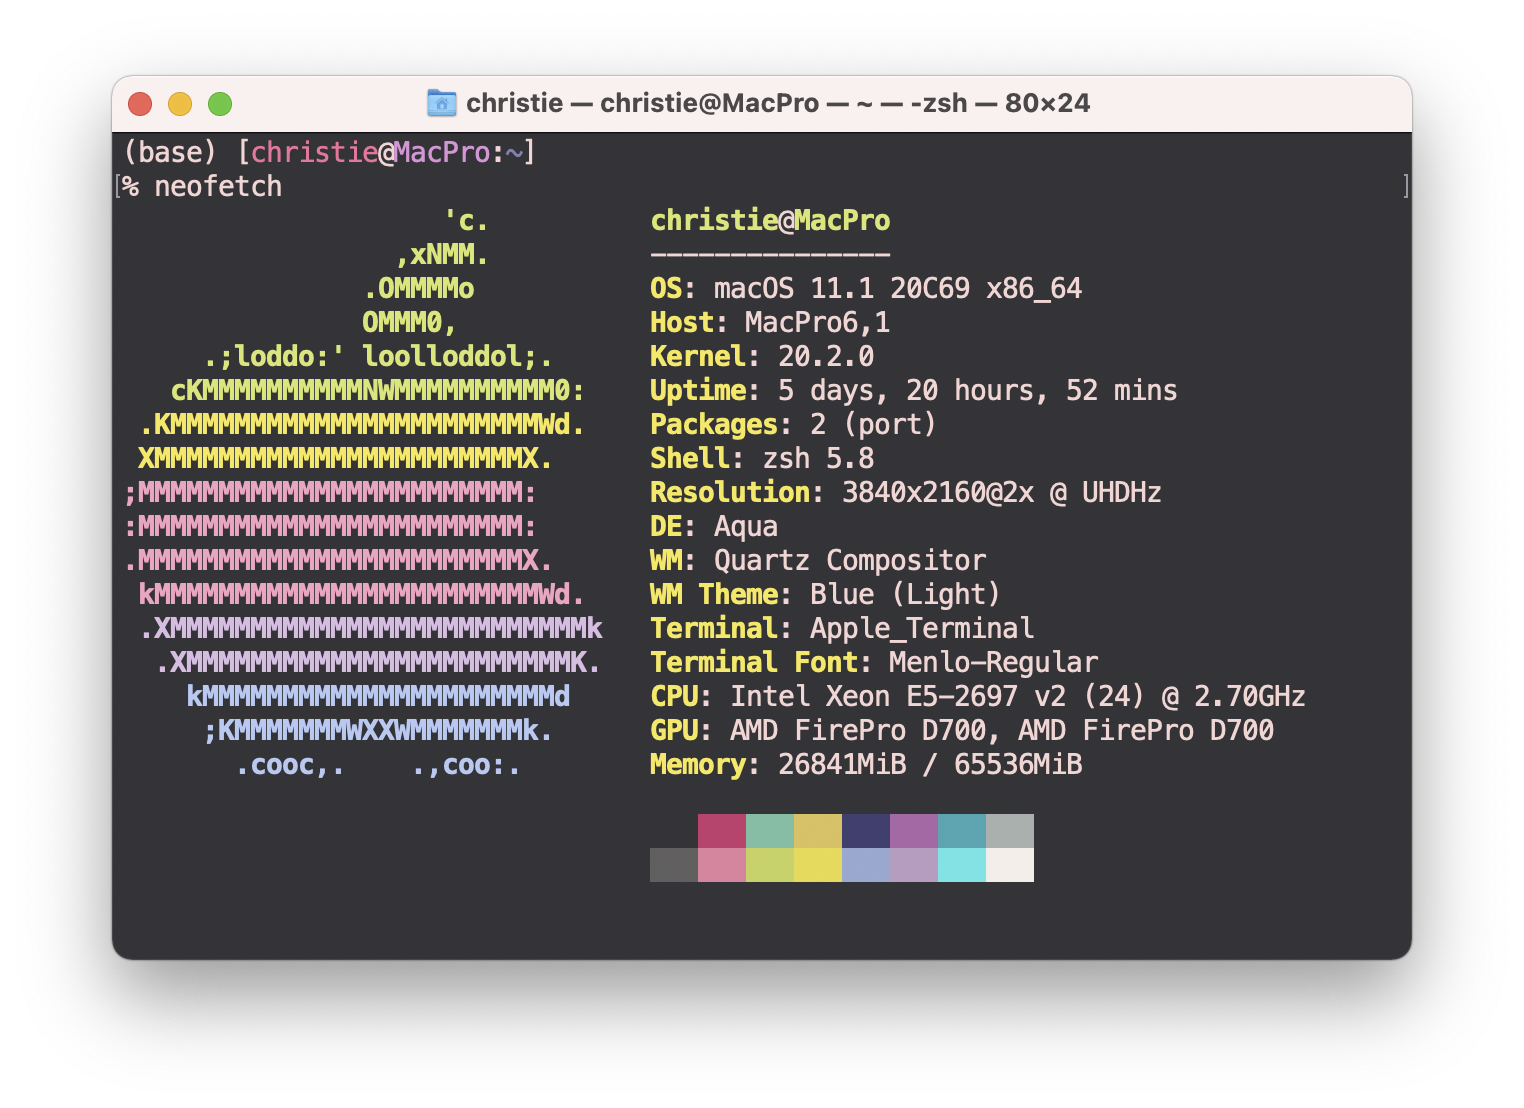
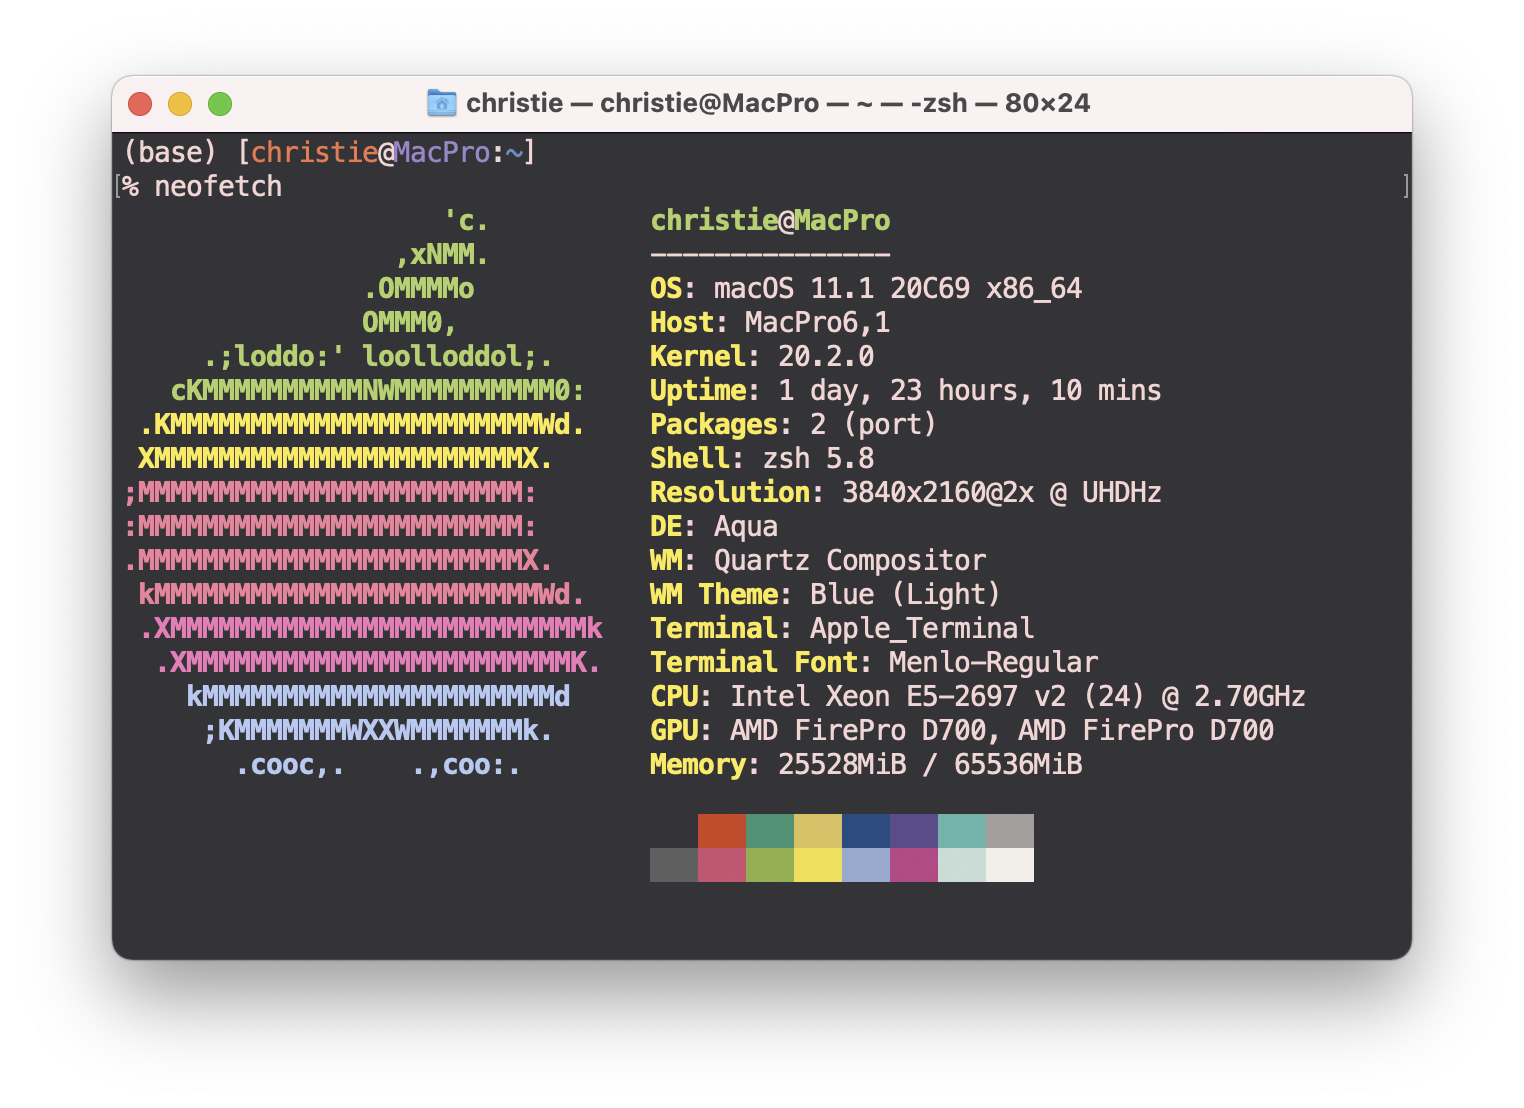
Updated downloads, images and colours

diff --git a/static/downloads/rosely.html b/static/downloads/rosely.html
@@ -9,7 +9,7 @@ input{margin-left: 1em;}
 </style></head>
 <body>
 <div id="colors">
-<div style="background-color:rgb(39, 39, 42); color:rgb(255, 255, 255)">rosely0:<br/><span>#27272A</span></div><div style="background-color:rgb(97, 95, 95); color:rgb(255, 255, 255)">rosely1:<br/><span>#615F5F</span></div><div style="background-color:rgb(133, 103, 123); color:rgb(255, 255, 255)">rosely2:<br/><span>#85677B</span></div><div style="background-color:rgb(164, 158, 158); color:rgb(0, 0, 0)">rosely3:<br/><span>#A49E9E</span></div><div style="background-color:rgb(247, 202, 202); color:rgb(0, 0, 0)">rosely4:<br/><span>#F7CACA</span></div><div style="background-color:rgb(244, 222, 222); color:rgb(0, 0, 0)">rosely5:<br/><span>#F4DEDE</span></div><div style="background-color:rgb(244, 238, 232); color:rgb(0, 0, 0)">rosely6:<br/><span>#F4EEE8</span></div><div style="background-color:rgb(147, 169, 209); color:rgb(0, 0, 0)">rosely7:<br/><span>#93A9D1</span></div><div style="background-color:rgb(190, 156, 193); color:rgb(0, 0, 0)">rosely8:<br/><span>#BE9CC1</span></div><div style="background-color:rgb(176, 135, 155); color:rgb(0, 0, 0)">rosely9:<br/><span>#B0879B</span></div><div style="background-color:rgb(181, 101, 167); color:rgb(0, 0, 0)">rosely10:<br/><span>#B565A7</span></div><div style="background-color:rgb(210, 56, 108); color:rgb(255, 255, 255)">rosely11:<br/><span>#D2386C</span></div><div style="background-color:rgb(236, 128, 158); color:rgb(0, 0, 0)">rosely12:<br/><span>#EC809E</span></div><div style="background-color:rgb(234, 218, 79); color:rgb(0, 0, 0)">rosely13:<br/><span>#EADA4F</span></div><div style="background-color:rgb(100, 191, 164); color:rgb(0, 0, 0)">rosely14:<br/><span>#64BFA4</span></div><div style="background-color:rgb(145, 155, 201); color:rgb(0, 0, 0)">rosely15:<br/><span>#919BC9</span></div></div>
+<div style="background-color:rgb(39, 39, 42); color:rgb(255, 255, 255)">rosely0:<br/><span>#27272A</span></div><div style="background-color:rgb(97, 95, 95); color:rgb(255, 255, 255)">rosely1:<br/><span>#615F5F</span></div><div style="background-color:rgb(164, 158, 158); color:rgb(0, 0, 0)">rosely2:<br/><span>#A49E9E</span></div><div style="background-color:rgb(244, 238, 232); color:rgb(0, 0, 0)">rosely3:<br/><span>#F4EEE8</span></div><div style="background-color:rgb(236, 128, 158); color:rgb(0, 0, 0)">rosely4:<br/><span>#EC809E</span></div><div style="background-color:rgb(247, 202, 202); color:rgb(0, 0, 0)">rosely5:<br/><span>#F7CACA</span></div><div style="background-color:rgb(248, 215, 221); color:rgb(0, 0, 0)">rosely6:<br/><span>#F8D7DD</span></div><div style="background-color:rgb(244, 222, 222); color:rgb(0, 0, 0)">rosely7:<br/><span>#F4DEDE</span></div><div style="background-color:rgb(133, 103, 123); color:rgb(255, 255, 255)">rosely8:<br/><span>#85677B</span></div><div style="background-color:rgb(181, 101, 167); color:rgb(0, 0, 0)">rosely9:<br/><span>#B565A7</span></div><div style="background-color:rgb(190, 156, 193); color:rgb(0, 0, 0)">roselyA:<br/><span>#BE9CC1</span></div><div style="background-color:rgb(210, 196, 214); color:rgb(0, 0, 0)">roselyB:<br/><span>#D2C4D6</span></div><div style="background-color:rgb(210, 56, 108); color:rgb(255, 255, 255)">roselyC:<br/><span>#D2386C</span></div><div style="background-color:rgb(100, 191, 164); color:rgb(0, 0, 0)">roselyD:<br/><span>#64BFA4</span></div><div style="background-color:rgb(60, 173, 212); color:rgb(0, 0, 0)">roselyE:<br/><span>#3CADD4</span></div><div style="background-color:rgb(234, 218, 79); color:rgb(0, 0, 0)">roselyF:<br/><span>#EADA4F</span></div><div style="background-color:rgb(39, 39, 42); color:rgb(255, 255, 255)">black:<br/><span>#27272A</span></div><div style="background-color:rgb(221, 65, 36); color:rgb(0, 0, 0)">red:<br/><span>#DD4124</span></div><div style="background-color:rgb(0, 148, 115); color:rgb(0, 0, 0)">green:<br/><span>#009473</span></div><div style="background-color:rgb(223, 193, 96); color:rgb(0, 0, 0)">yellow:<br/><span>#DFC160</span></div><div style="background-color:rgb(15, 76, 129); color:rgb(255, 255, 255)">blue:<br/><span>#0F4C81</span></div><div style="background-color:rgb(95, 75, 139); color:rgb(255, 255, 255)">magenta:<br/><span>#5F4B8B</span></div><div style="background-color:rgb(69, 181, 170); color:rgb(0, 0, 0)">cyan:<br/><span>#45B5AA</span></div><div style="background-color:rgb(164, 158, 158); color:rgb(0, 0, 0)">white:<br/><span>#A49E9E</span></div><div style="background-color:rgb(97, 95, 95); color:rgb(255, 255, 255)">bblack:<br/><span>#615F5F</span></div><div style="background-color:rgb(217, 79, 112); color:rgb(0, 0, 0)">bred:<br/><span>#D94F70</span></div><div style="background-color:rgb(136, 176, 75); color:rgb(0, 0, 0)">bgreen:<br/><span>#88B04B</span></div><div style="background-color:rgb(245, 223, 77); color:rgb(0, 0, 0)">byellow:<br/><span>#F5DF4D</span></div><div style="background-color:rgb(147, 169, 209); color:rgb(0, 0, 0)">bblue:<br/><span>#93A9D1</span></div><div style="background-color:rgb(202, 66, 134); color:rgb(0, 0, 0)">bmagenta:<br/><span>#CA4286</span></div><div style="background-color:rgb(195, 221, 214); color:rgb(0, 0, 0)">bcyan:<br/><span>#C3DDD6</span></div><div style="background-color:rgb(244, 238, 232); color:rgb(0, 0, 0)">bwhite:<br/><span>#F4EEE8</span></div></div>
 <script>
 function selectText(element){ if (document.selection){ var range = document.body.createTextRange(); range.moveToElementText(element); range.select(); }else if (window.getSelection){ var range = document.createRange(); range.selectNode(element); window.getSelection().addRange(range); } }
 document.getElementById('colors').addEventListener('click', function(event){ if (event.target.tagName.toLowerCase() == 'span'){ event.preventDefault(); selectText(event.target); document.execCommand('copy'); }});

diff --git a/static/downloads/rosely.css b/static/downloads/rosely.css
@@ -1,0 +1,35 @@
+/**
+ * Generated by Gpick 0.2.6rc1
+ * rosely0: #27272a, rgb(39, 39, 42), hsl(55, 15%, 16%)
+ * rosely1: #615f5f, rgb(97, 95, 95), hsl(137, 37%, 37%)
+ * rosely2: #a49e9e, rgb(164, 158, 158), hsl(232, 62%, 62%)
+ * rosely3: #f4eee8, rgb(244, 238, 232), hsl(344, 93%, 91%)
+ * rosely4: #ec809e, rgb(236, 128, 158), hsl(333, 50%, 62%)
+ * rosely5: #f7caca, rgb(247, 202, 202), hsl(349, 79%, 79%)
+ * rosely6: #f8d7dd, rgb(248, 215, 221), hsl(350, 84%, 87%)
+ * rosely7: #f4dede, rgb(244, 222, 222), hsl(344, 87%, 87%)
+ * rosely8: #85677b, rgb(133, 103, 123), hsl(188, 40%, 48%)
+ * rosely9: #b565a7, rgb(181, 101, 167), hsl(256, 40%, 65%)
+ * roselyA: #be9cc1, rgb(190, 156, 193), hsl(268, 61%, 76%)
+ * roselyB: #d2c4d6, rgb(210, 196, 214), hsl(296, 77%, 84%)
+ * roselyC: #d2386c, rgb(210, 56, 108), hsl(296, 22%, 42%)
+ * roselyD: #64bfa4, rgb(100, 191, 164), hsl(141, 75%, 64%)
+ * roselyE: #3cadd4, rgb(60, 173, 212), hsl(85, 68%, 83%)
+ * roselyF: #eada4f, rgb(234, 218, 79), hsl(330, 85%, 31%)
+ * black: #27272a, rgb(39, 39, 42), hsl(55, 15%, 16%)
+ * red: #dd4124, rgb(221, 65, 36), hsl(312, 25%, 14%)
+ * green: #009473, rgb(0, 148, 115), hsl(0, 58%, 45%)
+ * yellow: #dfc160, rgb(223, 193, 96), hsl(315, 76%, 38%)
+ * blue: #0f4c81, rgb(15, 76, 129), hsl(21, 30%, 51%)
+ * magenta: #5f4b8b, rgb(95, 75, 139), hsl(134, 29%, 55%)
+ * cyan: #45b5aa, rgb(69, 181, 170), hsl(97, 71%, 67%)
+ * white: #a49e9e, rgb(164, 158, 158), hsl(232, 62%, 62%)
+ * bblack: #615f5f, rgb(97, 95, 95), hsl(137, 37%, 37%)
+ * bred: #d94f70, rgb(217, 79, 112), hsl(306, 31%, 44%)
+ * bgreen: #88b04b, rgb(136, 176, 75), hsl(192, 69%, 29%)
+ * byellow: #f5df4d, rgb(245, 223, 77), hsl(346, 87%, 30%)
+ * bblue: #93a9d1, rgb(147, 169, 209), hsl(208, 66%, 82%)
+ * bmagenta: #ca4286, rgb(202, 66, 134), hsl(285, 26%, 53%)
+ * bcyan: #c3ddd6, rgb(195, 221, 214), hsl(275, 87%, 84%)
+ * bwhite: #f4eee8, rgb(244, 238, 232), hsl(344, 93%, 91%)
+ */

diff --git a/assets/scss/_variables_project.scss b/assets/scss/_variables_project.scss
@@ -33,7 +33,7 @@ $danger: $roselyC !default;
 $white: $rosely3 !default;
 $light: $rosely5 !default;
 
-$dark: $rosely2 !default;
+$dark: $rosely9 !default;
 $blue: $roselyE !default;
 $orange: $rosely4 !default;
 $gray-100: $rosely3 !default;
@@ -58,7 +58,7 @@ $td-sidebar-border-color: $border-color !default;
 // Background colors for the sections on home page etc. It is a paint by number system, starting at 0, where the number is taken from the shortcode's ordinal
 // if not provided by the user.
 // These colors are all part of the theme palette, but the mix is fairly random to create variation. This can be overridden by the project if needed.
-$td-box-colors: $rosely5, $rosely8, $rosely6, $roselyB, $primary-light, $gray-600, $success, $warning, $dark, $danger, $primary, $secondary, $primary-light, $info !default;
+$td-box-colors: $rosely5, $rosely8, $rosely6, $rosely7, $primary-light, $gray-600, $success, $warning, $dark, $danger, $primary, $secondary, $primary-light, $info !default;
 
 $link-color: $rosely9 !default;
 $link-decoration: none !default;

diff --git a/content/en/_index.html b/content/en/_index.html
@@ -24,7 +24,7 @@ linkTitle = "Rosely"
 			</p>
 		</div>
 	</div>
-	{{< blocks/link-down color="rosely10" >}}
+	{{< blocks/link-down color="rosely9" >}}
 </div>
 {{< /rosely >}}
 

diff --git a/content/en/Themes/macOS-Terminal/_index.md b/content/en/Themes/macOS-Terminal/_index.md
@@ -29,6 +29,10 @@ Rosely Light example
 Rosely Dark example
 {{< /imgproc >}}
 
-{{< imgproc colortest Fit "585x548" >}}
+{{< imgproc colortest-8 Fit "644x542" >}}
 colortest-8 results
+{{< /imgproc >}}
+
+{{< imgproc colortest-16 Fit "644x559" >}}
+colortest-16 results
 {{< /imgproc >}}

diff --git a/content/en/Themes/_index.md b/content/en/Themes/_index.md
@@ -7,4 +7,6 @@ menu:
     weight: 30
 ---
 
-Rosely supports a broad and constantly growing set of themes that allows to customize your daily tool stack.
+![](/drawings/apps.svg)
+
+Rosely supports a set of themes that allows to customise your favourite applications.
